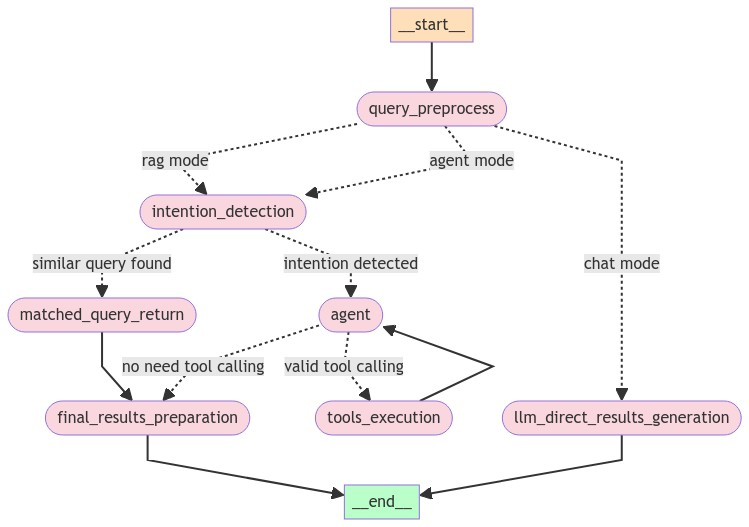
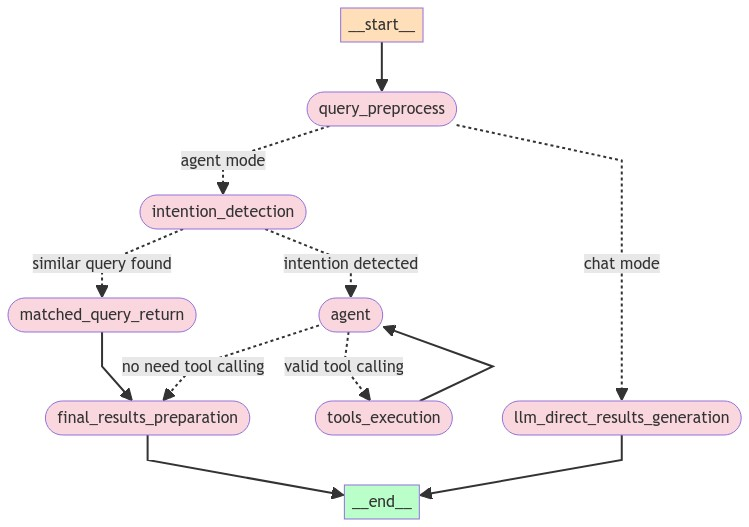
only agent mode

diff --git a/source/lambda/online/lambda_main/test/main_local_test_common.py b/source/lambda/online/lambda_main/test/main_local_test_common.py
@@ -1,7 +1,7 @@
 from local_test_base import generate_answer
 import time 
 
-def test(chatbot_mode="agent",session_id=None,query=None,use_history=True):
+def test(chatbot_mode="agent",session_id=None,query=None,use_history=True,only_use_rag_tool=False):
     default_llm_config = {
         'model_id': 'anthropic.claude-3-sonnet-20240229-v1:0',
         'model_kwargs': {
@@ -11,10 +11,10 @@ def test(chatbot_mode="agent",session_id=None,query=None,use_history=True):
         "chatbot_mode": chatbot_mode,
         "use_history": use_history,
         "default_llm_config": default_llm_config,
+        "agent_config":{
+            "only_use_rag_tool": only_use_rag_tool
+        }
     }
-        # "default_workspace_config":{
-        #     "intent_workspace_ids":["default-intent-debug"],
-        # },
     
     generate_answer(
         query,
@@ -25,9 +25,8 @@ def test(chatbot_mode="agent",session_id=None,query=None,use_history=True):
     )
 
 def test_multi_turns_rag_pr():
-    print("complete test for rag")
+    print("complete test for only rag tool mode")
     print("++"*50)
-    mode="rag"
     session_id = f"multiturn_test_{time.time()}"
     user_queries = [
         {"query":"什么是aws ec2", "use_history":True},
@@ -40,10 +39,11 @@ def test_multi_turns_rag_pr():
         if isinstance(query,str):
             query = {"query":query}
         test(
-            chatbot_mode=mode,
+            chatbot_mode='agent',
             session_id=session_id,
             query=query['query'],
-            use_history=query['use_history']
+            use_history=query['use_history'],
+            only_use_rag_tool=True
         )
         print()
 
@@ -95,7 +95,8 @@ def test_multi_turns_agent_pr():
             chatbot_mode=mode,
             session_id=session_id,
             query=query['query'],
-            use_history=query['use_history']
+            use_history=query['use_history'],
+            only_use_rag_tool=True
         )
         print()
 
@@ -113,7 +114,7 @@ def complete_test_pr():
     print("finish test in chat mode")
 
 def bigo_test():
-    mode="rag"
+    mode="agent"
     session_id = f"multiturn_test_{time.time()}"
     user_queries = [
         {"query":"怎么进行个体户注册", "use_history":True},
@@ -136,6 +137,9 @@ def bigo_test():
                 "qq_match":['bingo_qq'],
                 "private_knowledge":['wrong']
             },
+            "agent_config": {
+                "only_use_rag_tool": True
+            }
         }
         
         generate_answer(

diff --git a/source/lambda/online/lambda_main/main_utils/online_entries/common_entry.py b/source/lambda/online/lambda_main/main_utils/online_entries/common_entry.py
@@ -178,13 +178,13 @@ def agent(state: ChatbotState):
         if tool_name == "give_final_response":
             first_tool_final_response = True
 
-    if no_intention_condition or first_tool_final_response or state['chatbot_config']['chatbot_mode']==ChatbotMode.rag_mode:
-        if  state['chatbot_config']['chatbot_mode']==ChatbotMode.rag_mode:
-            send_trace("rag mode, switch to rag", enable_trace=state["enable_trace"])
+    if no_intention_condition or first_tool_final_response or state['chatbot_config']['agent_config']['only_use_rag_tool']:
+        if  state['chatbot_config']['agent_config']['only_use_rag_tool']:
+            send_trace("agent only use rag tool", enable_trace=state["enable_trace"])
         elif no_intention_condition:
-            send_trace("no_intention_condition, switch to rag", enable_trace=state["enable_trace"])
+            send_trace("no_intention_condition, switch to rag tool", enable_trace=state["enable_trace"])
         elif first_tool_final_response:
-            send_trace("first tool is final response, switch to rag", enable_trace=state["enable_trace"])
+            send_trace("first tool is final response, switch to rag tool", enable_trace=state["enable_trace"])
 
         return {
             "function_calling_parse_ok": True,
@@ -305,7 +305,6 @@ def build_graph(chatbot_state_cls):
         query_route,
         {
             "chat mode": "llm_direct_results_generation",
-            "rag mode": "intention_detection",
             "agent mode": "intention_detection",
         },
     )

diff --git a/source/lambda/online/lambda_main/main_utils/parse_config.py b/source/lambda/online/lambda_main/main_utils/parse_config.py
@@ -53,7 +53,7 @@ class ConfigParserBase:
                 },
                 "retrievers": default_index_config.get("qq_match",[])
             },
-            "agent_config": {**copy.deepcopy(default_llm_config), "tools": []},
+            "agent_config": {**copy.deepcopy(default_llm_config), "tools": [], "only_use_rag_tool": False},
             "chat_config": {
                 **copy.deepcopy(default_llm_config),
             },
